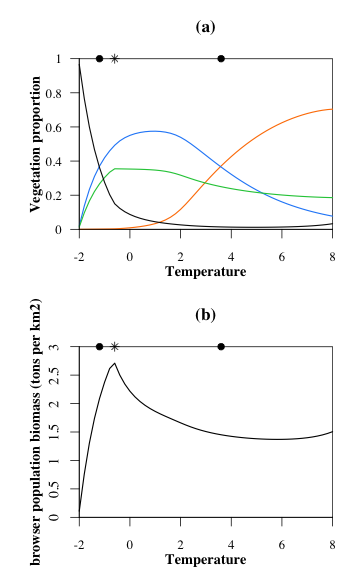
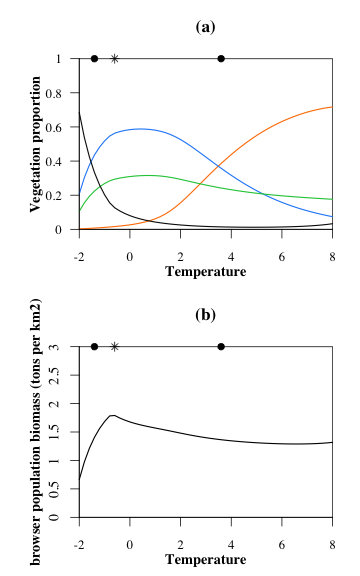
modif modelG

diff --git a/Readme.md b/Readme.md
@@ -580,7 +580,7 @@ out = solveEq(func = modelG, init =T0, parms = init.params, maxsteps = 10000)
 
 ```
 ##            T            S            B            H 
-##    0.3084180    0.2637219    0.4110798 2990.6327832
+##    0.3284338    0.2533228    0.4013544 2779.4831384
 ```
 
 ## Equilibrium along the gradient
